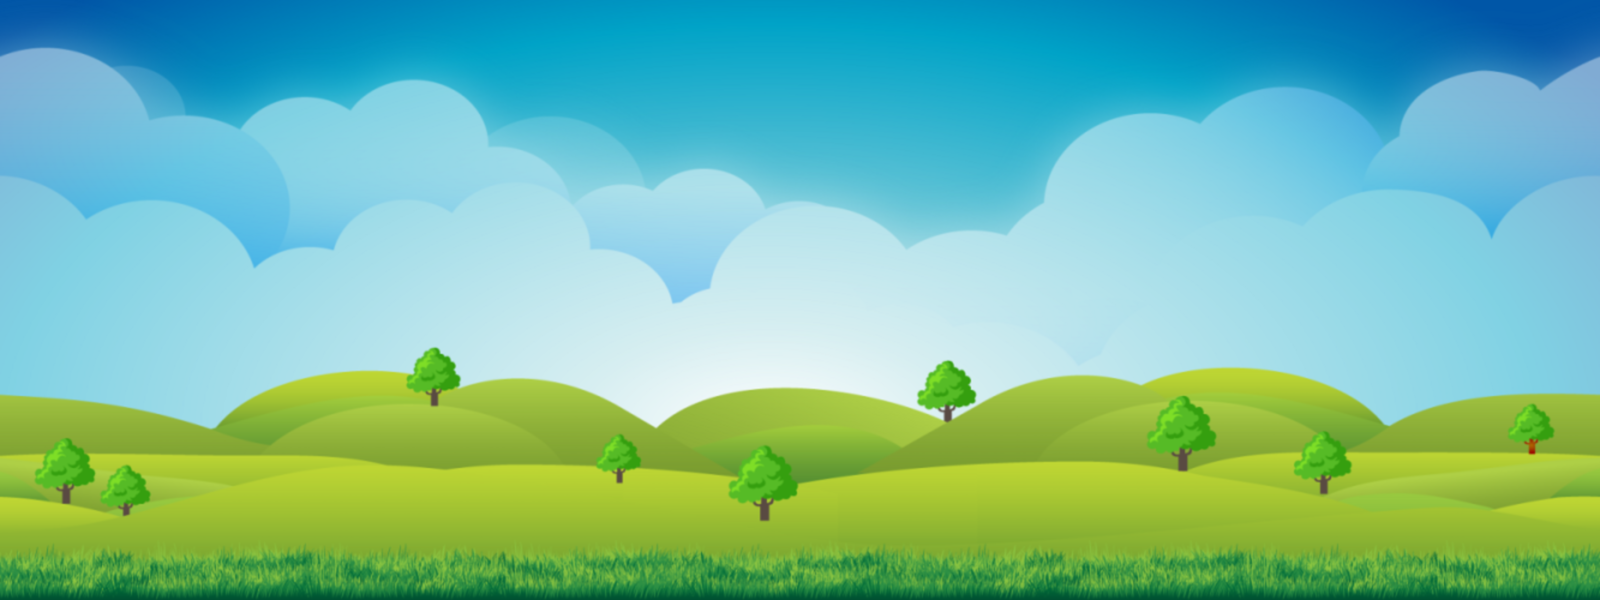
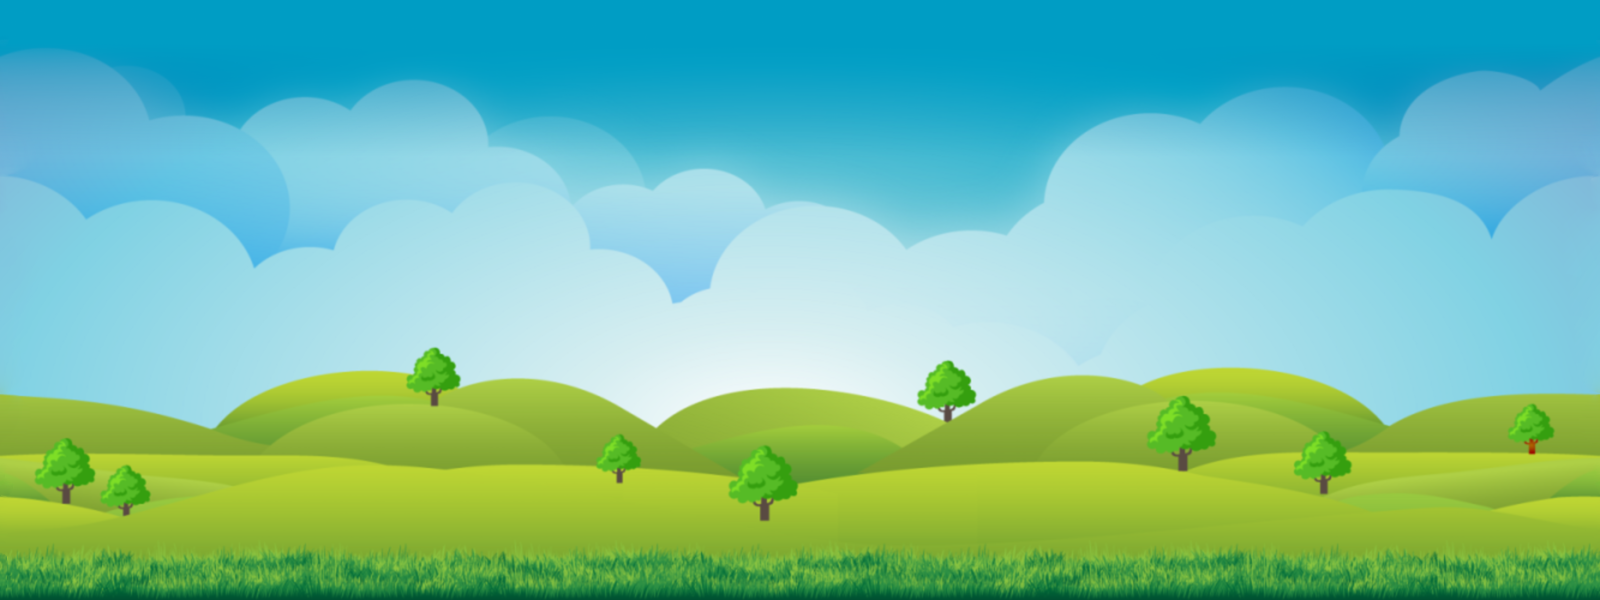
Make background seamless

diff --git a/main.js b/main.js
@@ -57,6 +57,7 @@ var platforms = [
 ];
 const gravitySpeed = 0.3;
 let tickLength = 10;
+const backgroundSlowness = 2;
 const pressedKeys= {
     up: false,
     down: false,
@@ -69,16 +70,19 @@ function game() {
 
 
 
-    //comment
     var canvas = document.getElementById("canvas");
     var ctx = canvas.getContext("2d");
-    ctx.fillStyle = "white";
+    //Draw blue background
+    ctx.fillStyle = "#009dc4";
     ctx.fillRect(0, 0, canvas.width, canvas.height);
-    var background = document.querySelector("#background");
-    var backgroundX = -character.x/4 - gameDimensions.width/2;
-    ctx.drawImage(background, backgroundX, -character.y + gameDimensions.height*1.5 -  canvas.height, canvas.width, canvas.height);
-    ctx.drawImage(background, backgroundX + canvas.width, -character.y + gameDimensions.height*1.5 -  canvas.height, canvas.width, canvas.height);
 
+    //Draw seamless parallax background
+    var background = document.querySelector("#background");
+    var screenNum = parseInt(character.x / (gameDimensions.width * backgroundSlowness));
+    var backgroundX = parseInt((-character.x / backgroundSlowness) + (screenNum * gameDimensions.width));
+    ctx.drawImage(background, backgroundX, -character.y + gameDimensions.height*1.5 -  canvas.height, canvas.width, canvas.height);
+    ctx.drawImage(background, backgroundX + gameDimensions.width, -character.y + gameDimensions.height*1.5 -  canvas.height, canvas.width, canvas.height);
+    
     var costume = document.querySelector("#character");
     ctx.drawImage(costume, character.costumex, character.costumey, character.width, character.height, canvas.width/2, canvas.height/2, character.width, character.height);
     
@@ -150,6 +154,9 @@ function game() {
         character.vy = -10;
     }
     
+    //Put character data on the screen
+    //document.querySelector("pre").innerHTML = JSON.stringify(character, null, 2);
+
     setTimeout(game, tickLength);
 }
 

diff --git a/first advanced game.html b/first advanced game.html
@@ -1,10 +1,7 @@
 <!DOCTYPE HTML>
-
 <html>
-
 <head>
     <title>Run!</title>
-
     <head>
         <!--<link rel="stylesheet" href="styleSheet.css">-->
         <style>
@@ -12,33 +9,24 @@
                 border: 1px solid black;
             }
         </style>
-
     </head>
-
     <script src="main.js"></script>
-
-
-
-
-
 </head>
-
 </head>
-
 <body onload=game()>
     <img src="professor_walk_cycle_no_hat.png" hidden id="character">
     <img src="Background.png" hidden id="background">
 
 
     <canvas id="canvas" width="1500" height="750"></canvas>
+
+    <pre></pre>
+
     <audio id="bounce" hidden>
         <source src="368175__josepharaoh99__bouncy-sound.mp3" type="audio/mp3">
     </audio>
     <audio id="gameOver" hidden>
         <source src="533034__evretro__8-bit-game-over-sound-tune.wav" type="audio/wav">
     </audio>
-
-
 </body>
-
 </html>
